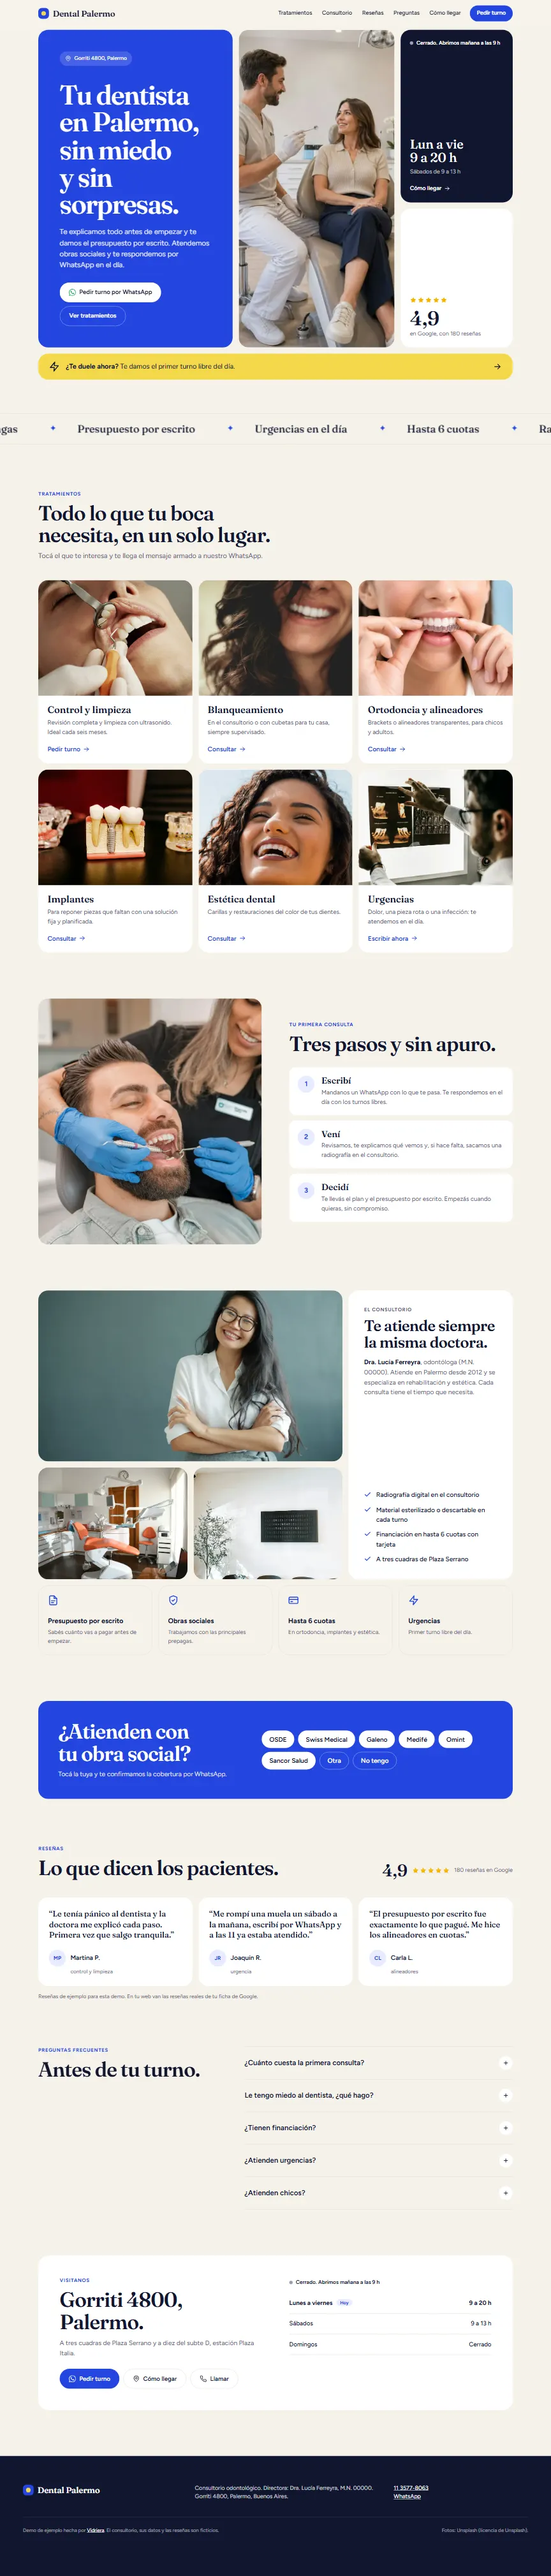
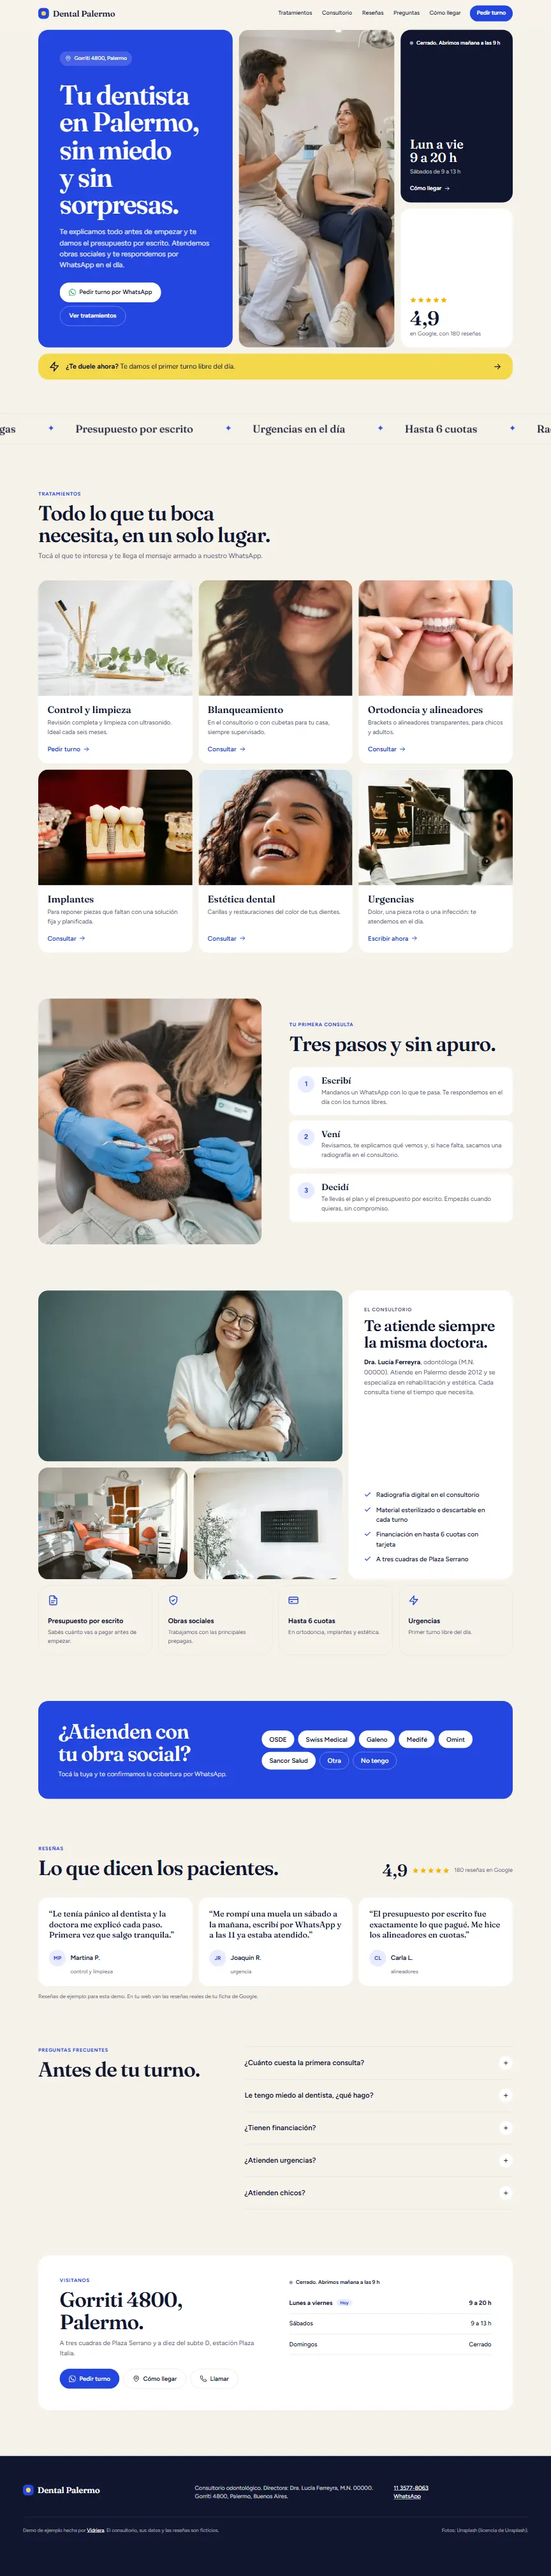
Cambiar la foto de control y limpieza en la demo del consultorio
Cepillos de bambú en lugar del primer plano de la boca con instrumental.

Changed region(s): [[0.0625, 0.2184, 0.375, 0.2808]]

diff --git a/vidriera/demos/odontologia/index.html b/vidriera/demos/odontologia/index.html
@@ -109,7 +109,7 @@
 
     <div class="treatments">
       <article class="treat" data-reveal>
-        <img src="img/control.webp" width="1400" height="1050" loading="lazy" alt="Odontóloga revisando los dientes de una paciente con un espejo">
+        <img src="img/control.webp" width="1400" height="1050" loading="lazy" alt="Cepillos de dientes de bambú en un frasco de vidrio, junto a unas ramas de eucalipto">
         <div class="treat-body">
           <h3>Control y limpieza</h3>
           <p>Revisión completa y limpieza con ultrasonido. Ideal cada seis meses.</p>
